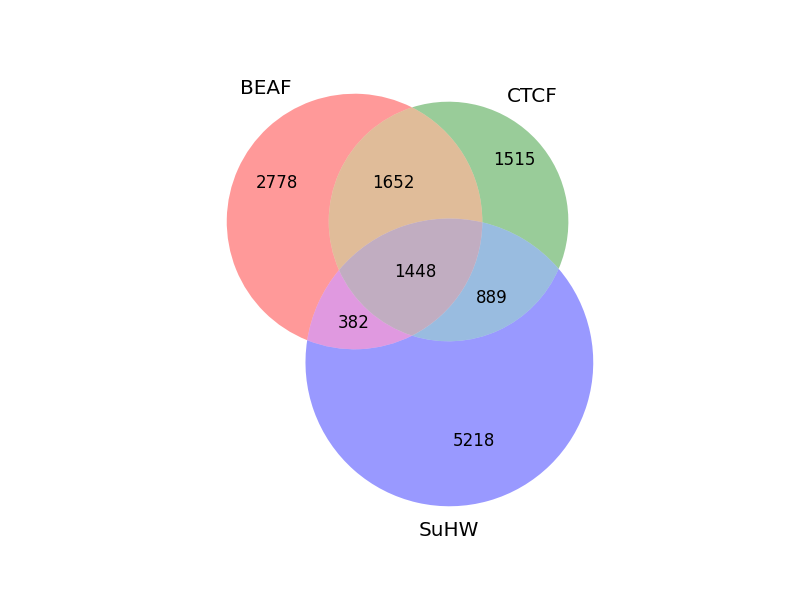
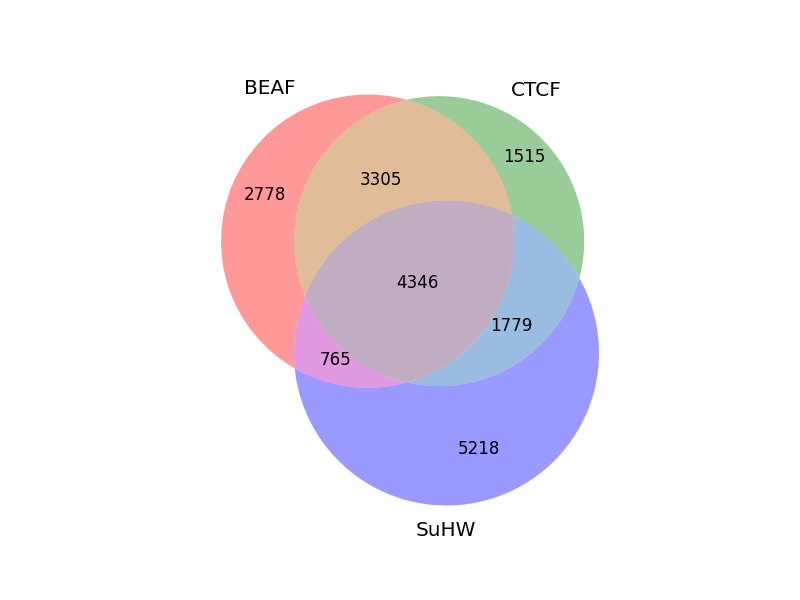
Redoing number 1

diff --git a/day4/day4_lunch_1.py b/day4/day4_lunch_1.py
@@ -40,8 +40,6 @@ C = array_from_len_file( "dm3.len" )
 set_bits_from_file( C, "DM3_Kc_SuHW.bed" )
 
 
-
-
 ##for key, value in arrays.iteritems(): 
 ##    print key, type ( value ), value.shape, numpy.sum( value ) #key is the chromosomes and the value of the arrays
 Count_A = 0
@@ -52,8 +50,9 @@ Count_AC = 0
 Count_BC = 0
 Count_ABC = 0
 for filename in ("DM3_Kc_BEAF.bed", "DM3_Kc_CTCF.bed", "DM3_Kc_SuHW.bed"):
+    #this allows for me to use any of the files for the next for statement
     for line in open( filename ):
-        fields = line.split()
+        fields = line.split()#pulls out splices for each ind array
         #parse fields
         chrom = fields[0]
         start = int( fields[1] )
@@ -79,10 +78,8 @@ for filename in ("DM3_Kc_BEAF.bed", "DM3_Kc_CTCF.bed", "DM3_Kc_SuHW.bed"):
             Count_A+=1
           
 print Count_ABC, Count_A, Count_AB, Count_AC, Count_BC, Count_B, Count_C
-All = int(Count_ABC / 3)
-AB = int(Count_AB / 2)
-BC = int(Count_BC / 2)
-AC = int(Count_AC / 2)
+
 plt.figure()
-v = venn3(subsets=(Count_A, Count_B, AB, Count_C, AC, BC, All), set_labels=("BEAF", "CTCF", "SuHW"))
+v = venn3(subsets=(Count_A, Count_B, Count_AB, Count_C, Count_AC, Count_BC, Count_ABC), set_labels=("BEAF", "CTCF", "SuHW"))
 plt.savefig("VennDiagram.png")
+
